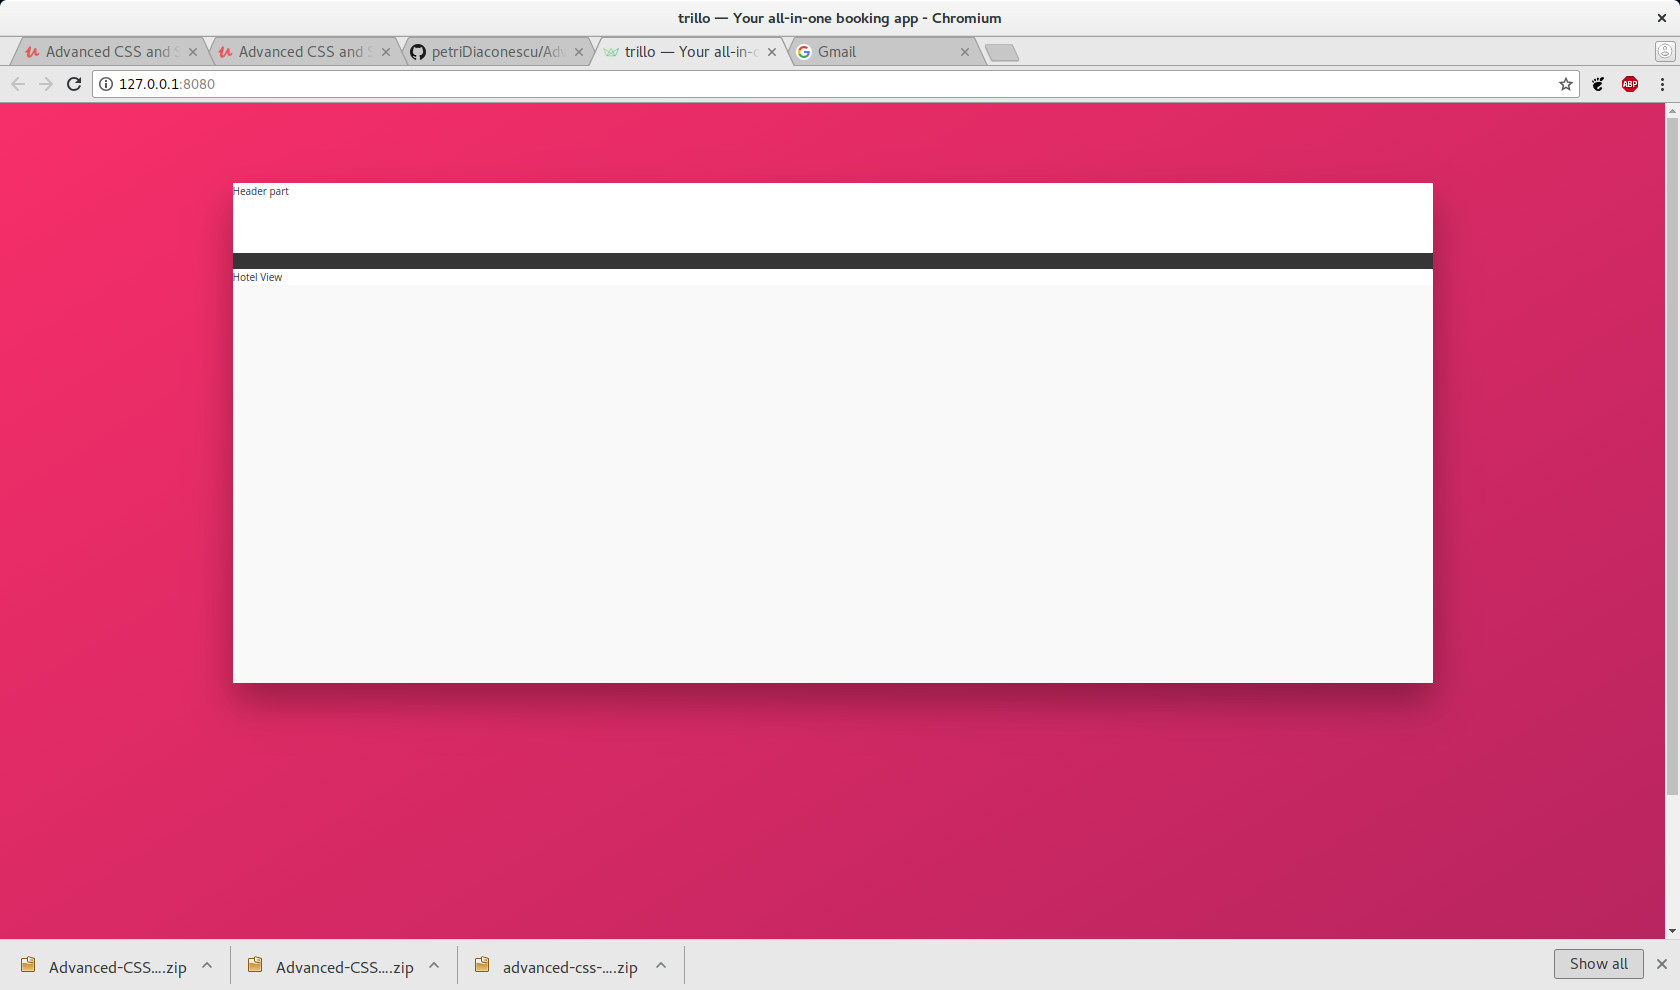
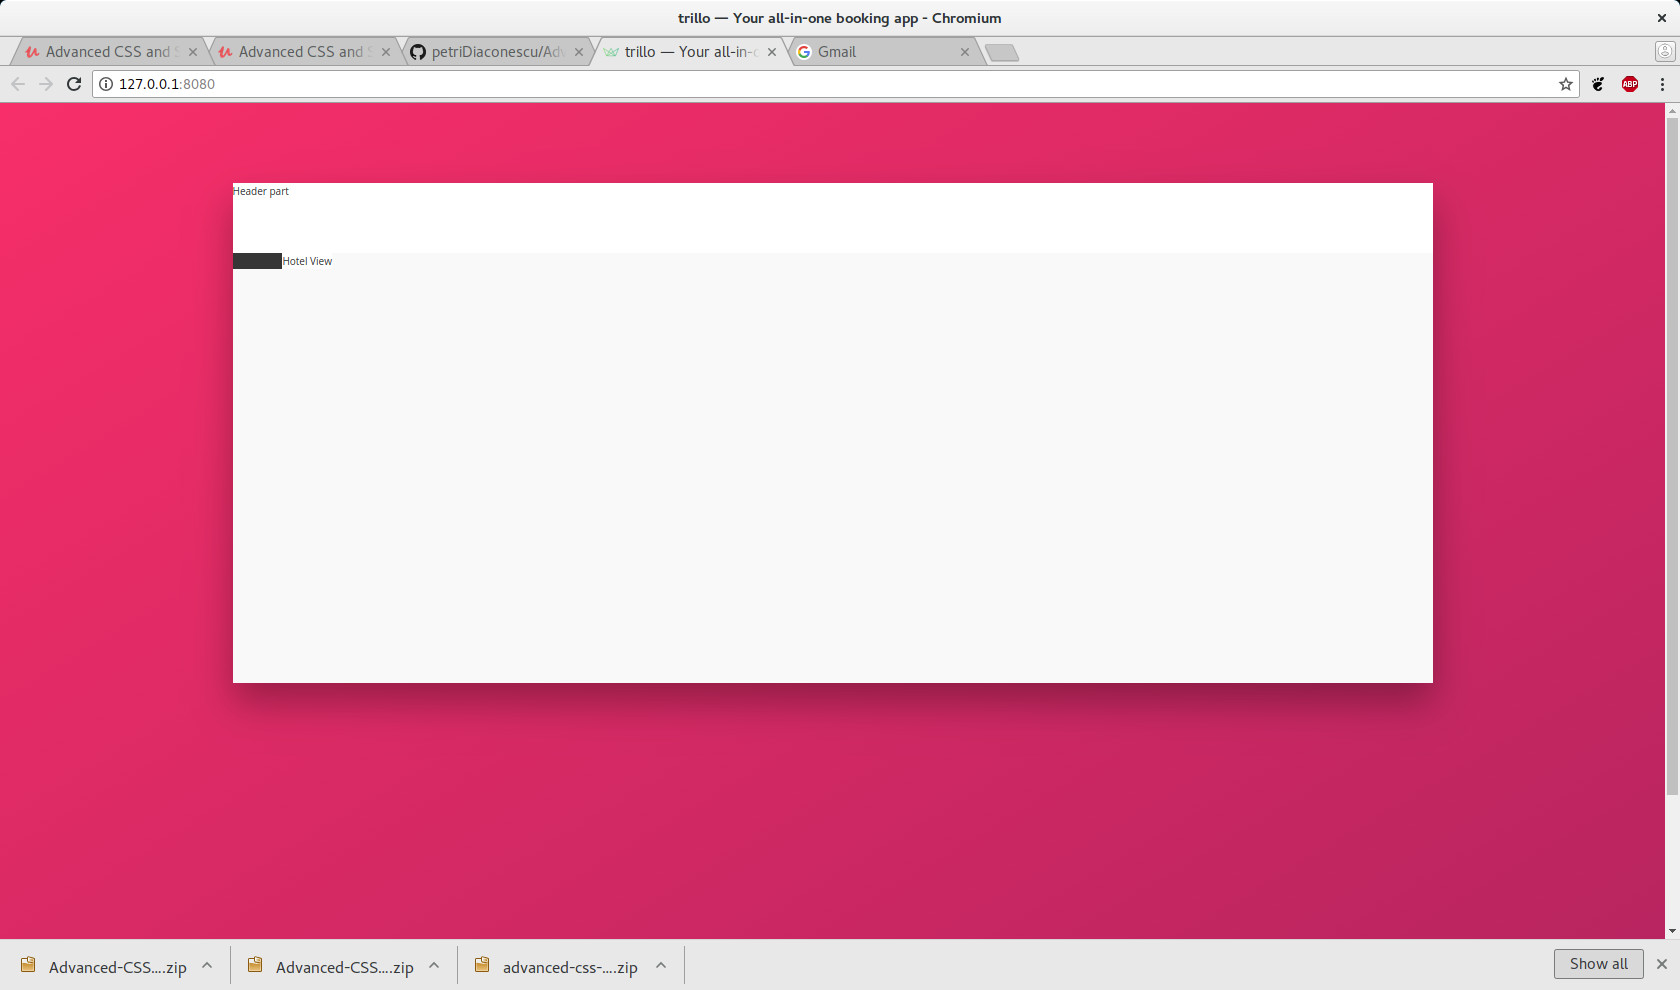
We don't want the sidebar to grow if there are some space, nor to shrink if there is not enough space but we always want it to keep 18%. It will shrink anyway because we provide a percentage value in flex, not a pixel value

Changed region(s): [[0.1548, 0.2424, 0.8667, 0.2727]]

diff --git a/sass/_layout.scss b/sass/_layout.scss
@@ -20,6 +20,8 @@
 .sidebar {
   background-color: var(--color-grey-dark-1);
   
+  flex: 0 0 18%;
+  
 }
 
 .hotel-view {
